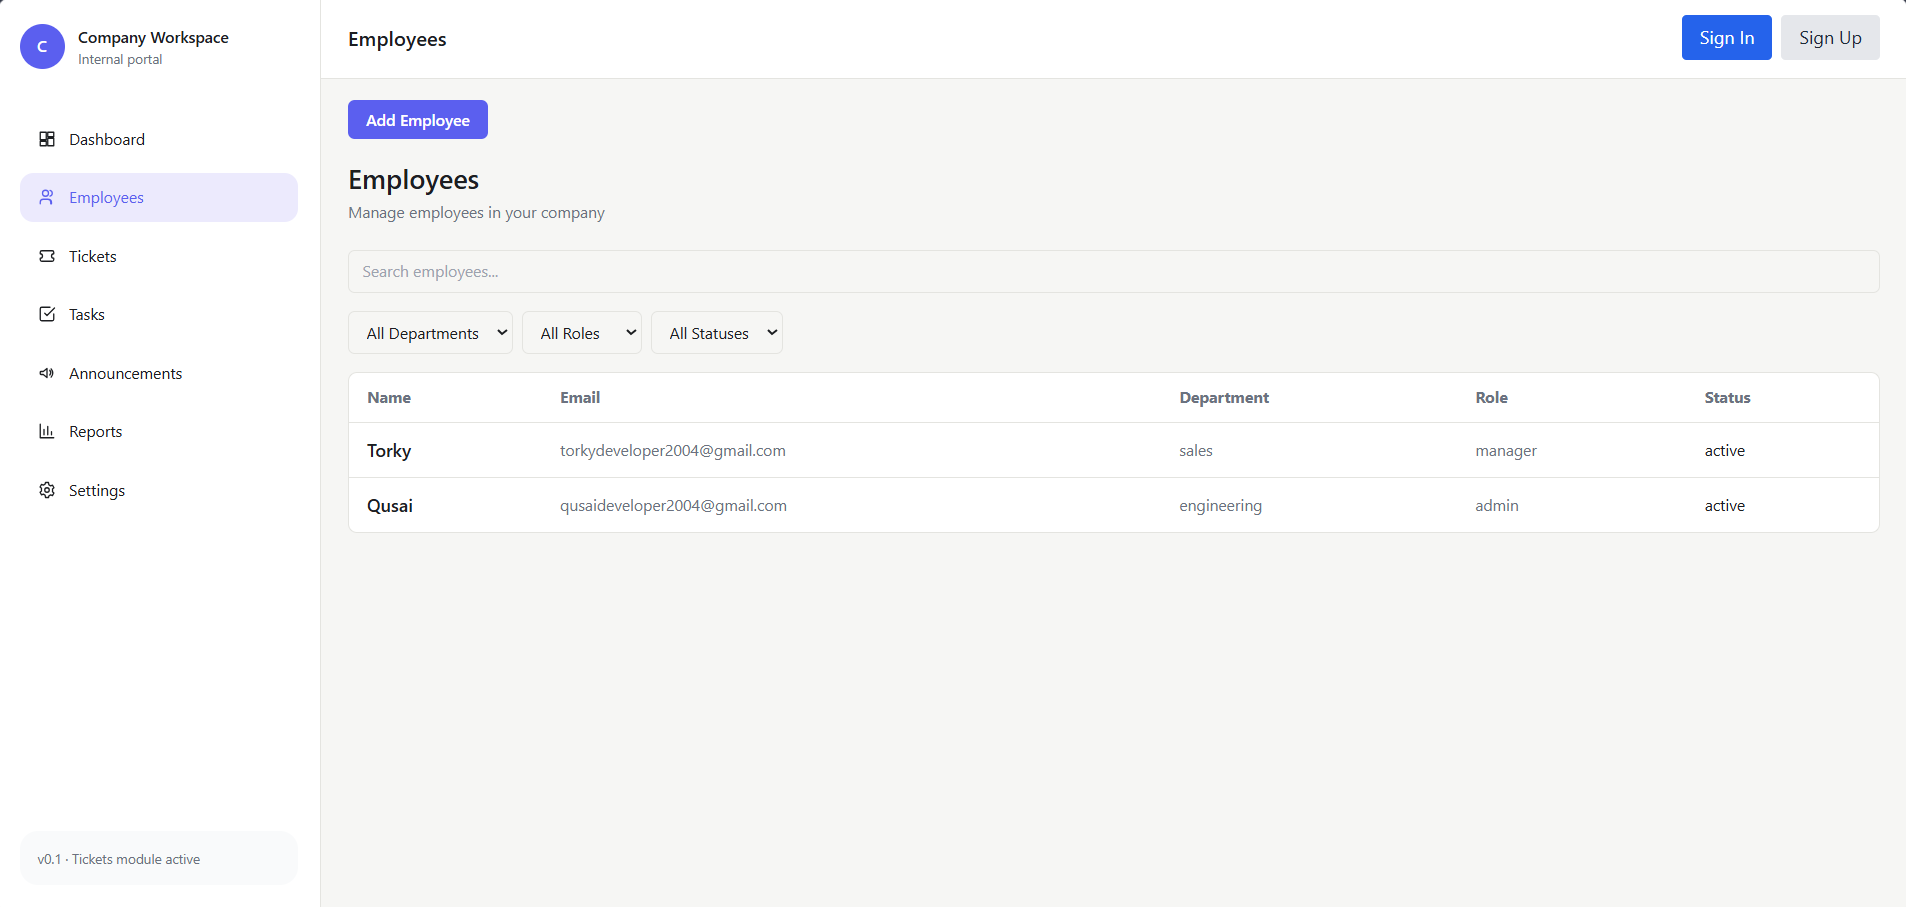
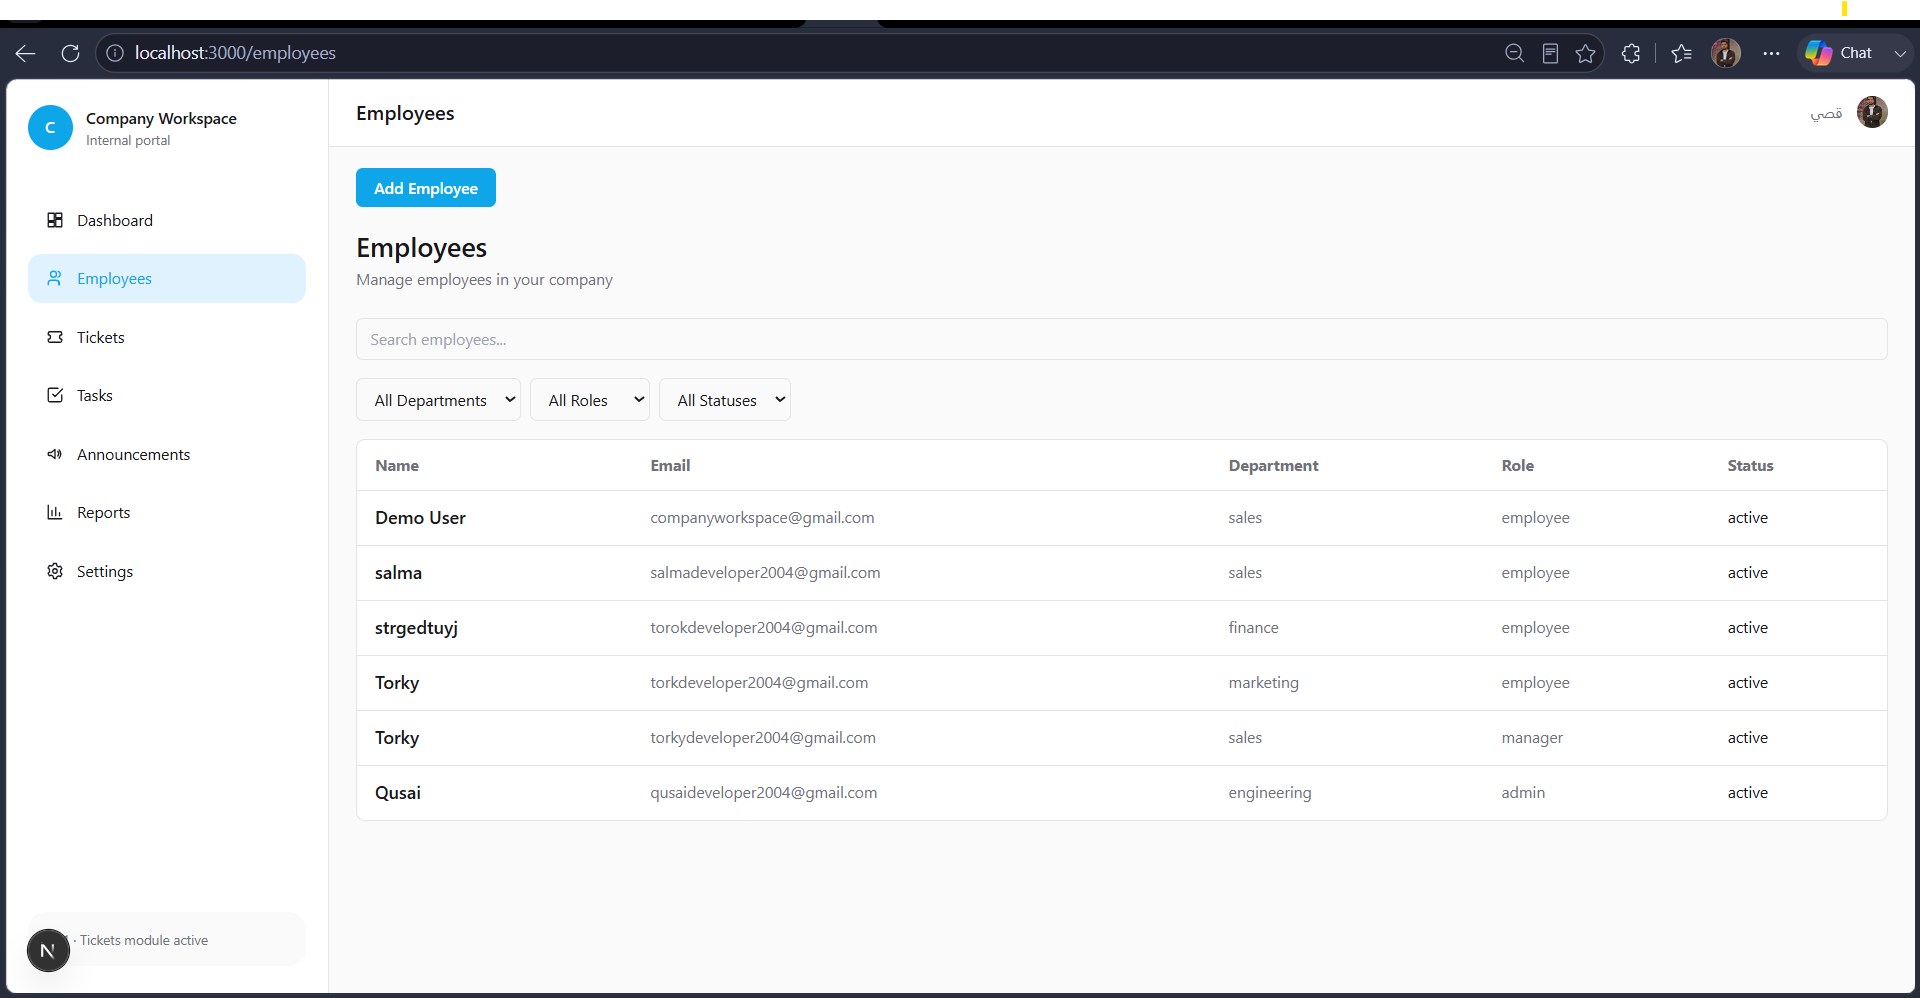
Add project screenshots and demo account details

diff --git a/README.md b/README.md
@@ -4,6 +4,16 @@ An internal company portal for managing employees, support tickets, tasks, annou
 
 It uses role-based access control so that admins, managers, and employees only see and perform the actions allowed for their role and department.
 
+## Demo Account
+
+Use this shared account to explore the protected workspace:
+
+- Email: `companyworkspace@gmail.com`
+- Password: `DemoTestApp2004`
+
+> This is a shared demo account with limited Admin permissions.
+> Do not add sensitive or personal information.
+
 ## Live Demo
 
 [Open the live demo](https://company-workspace-beta.vercel.app/)
@@ -12,7 +22,21 @@ It uses role-based access control so that admins, managers, and employees only s
 
 <!-- Add screenshots here after uploading image files to Images-Project/. -->
 
-<!-- Example: ![Dashboard](./Images-Project/dashboard.png) -->
+![Dashboard - Light Theme](./Images-Project/dashboard-light.png)
+
+![Dashboard - Dark Theme](./Images-Project/dashboard-dark.png)
+
+![Employees](./Images-Project/employees.png)
+
+![Tickets](./Images-Project/tickets.png)
+
+![Tasks](./Images-Project/tasks.png)
+
+![Announcements](./Images-Project/announcements.png)
+
+![Reports](./Images-Project/reports.png)
+
+![Settings](./Images-Project/settings.png)
 
 ## Features
 
@@ -30,13 +54,13 @@ It uses role-based access control so that admins, managers, and employees only s
 
 ## Permission Summary
 
-| Module | Admin | Manager | Employee |
-| --- | --- | --- | --- |
-| Employees | Full management | Create/update eligible employees in own department; no delete | View list only |
-| Tickets | Manage all | Manage own-department tickets | Manage only own tickets |
-| Tasks | Manage all | Manage own-department tasks | Update only assigned task status |
-| Announcements | Create, update, delete | Create and update | Read only |
-| Company Settings | Manage | View personal preferences | View personal preferences |
+| Module           | Admin                  | Manager                                                       | Employee                         |
+| ---------------- | ---------------------- | ------------------------------------------------------------- | -------------------------------- |
+| Employees        | Full management        | Create/update eligible employees in own department; no delete | View list only                   |
+| Tickets          | Manage all             | Manage own-department tickets                                 | Manage only own tickets          |
+| Tasks            | Manage all             | Manage own-department tasks                                   | Update only assigned task status |
+| Announcements    | Create, update, delete | Create and update                                             | Read only                        |
+| Company Settings | Manage                 | View personal preferences                                     | View personal preferences        |
 
 Inactive employees and Clerk accounts without a linked Employee record cannot access the workspace or complete protected operations.
 
